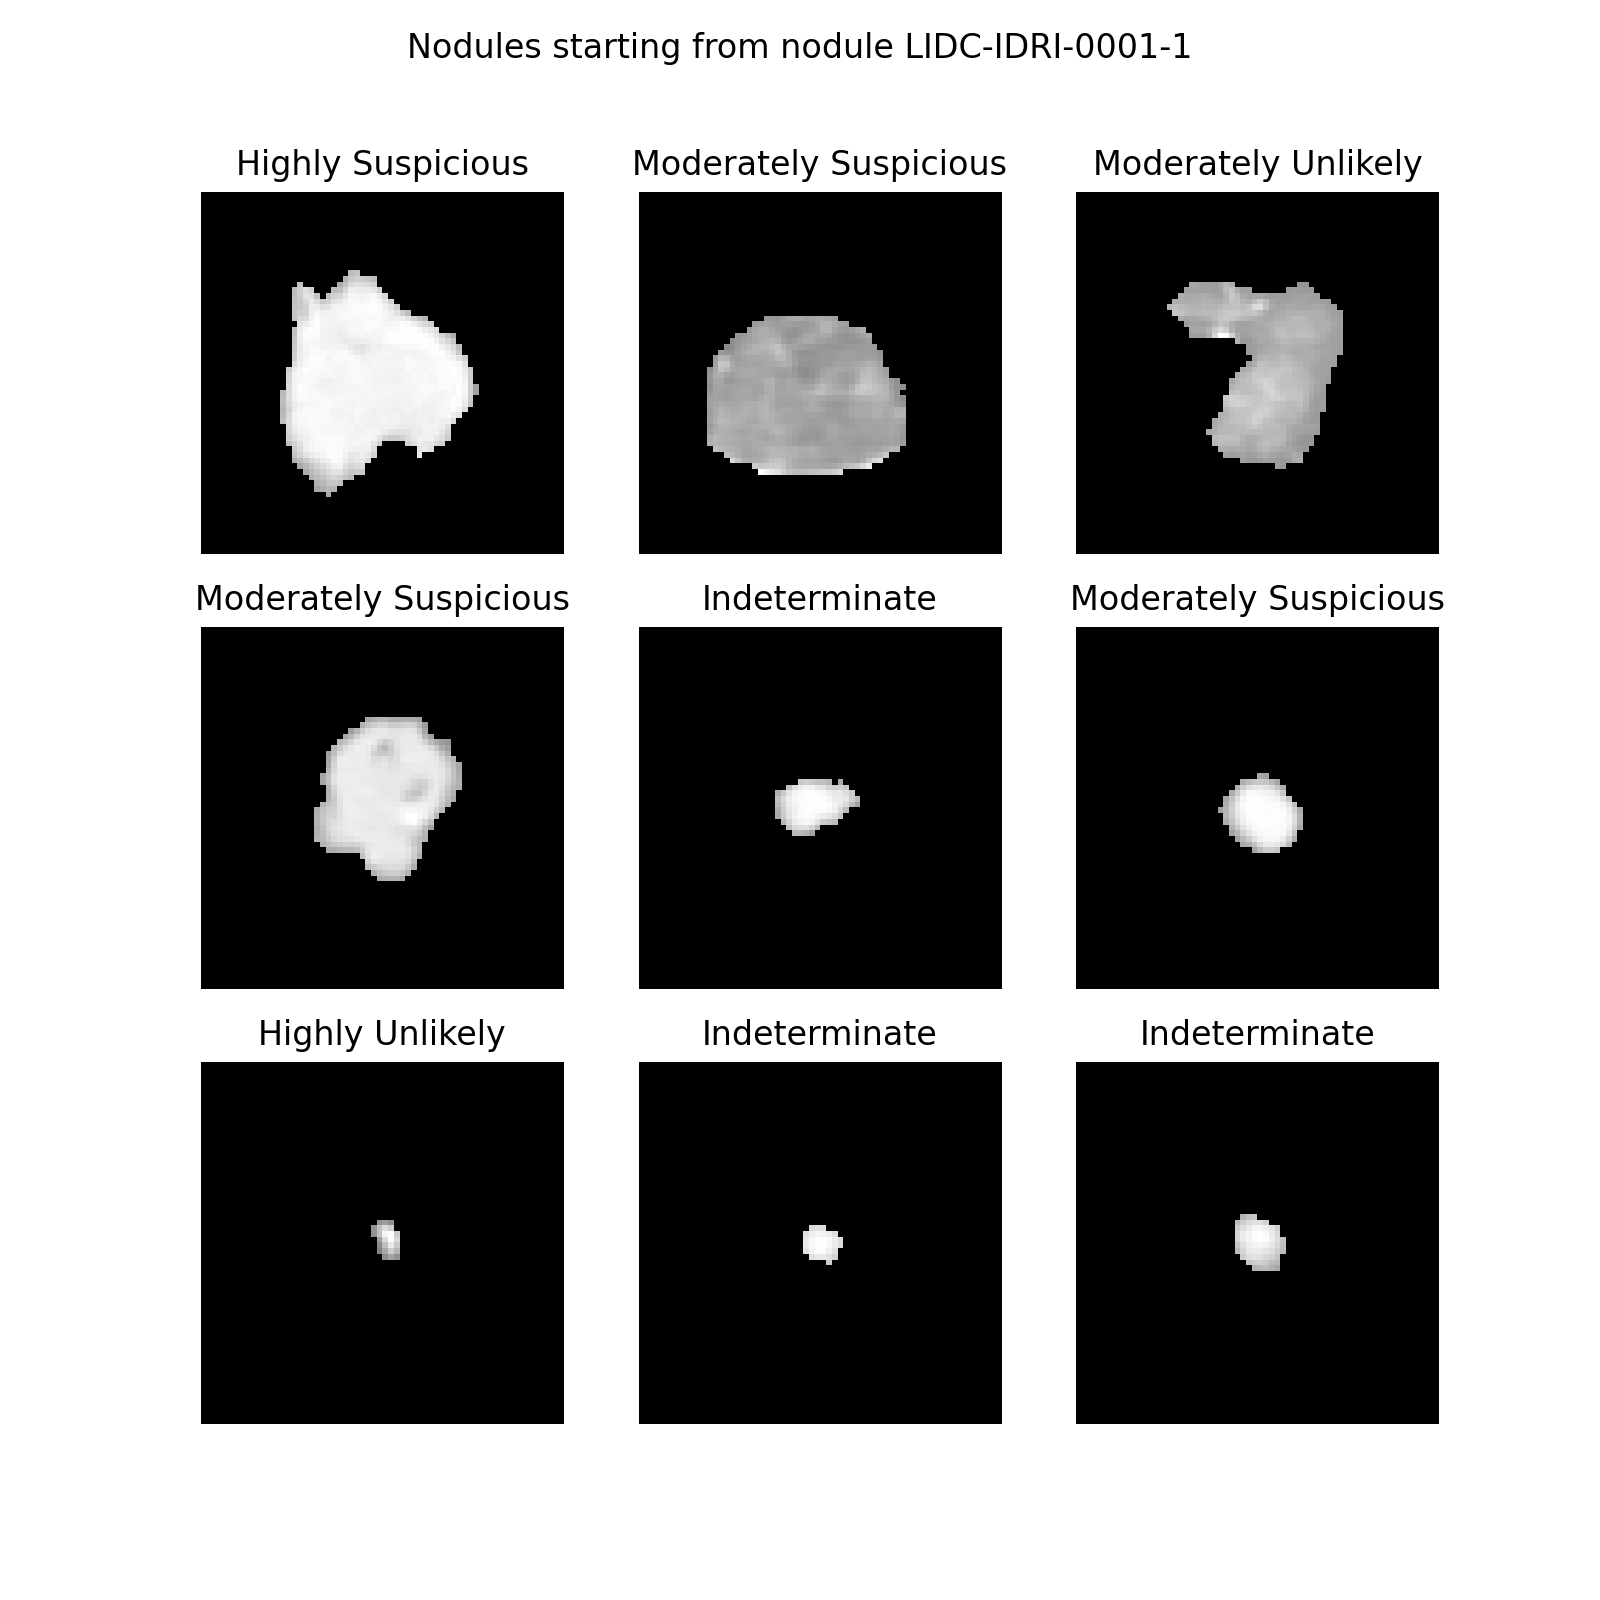
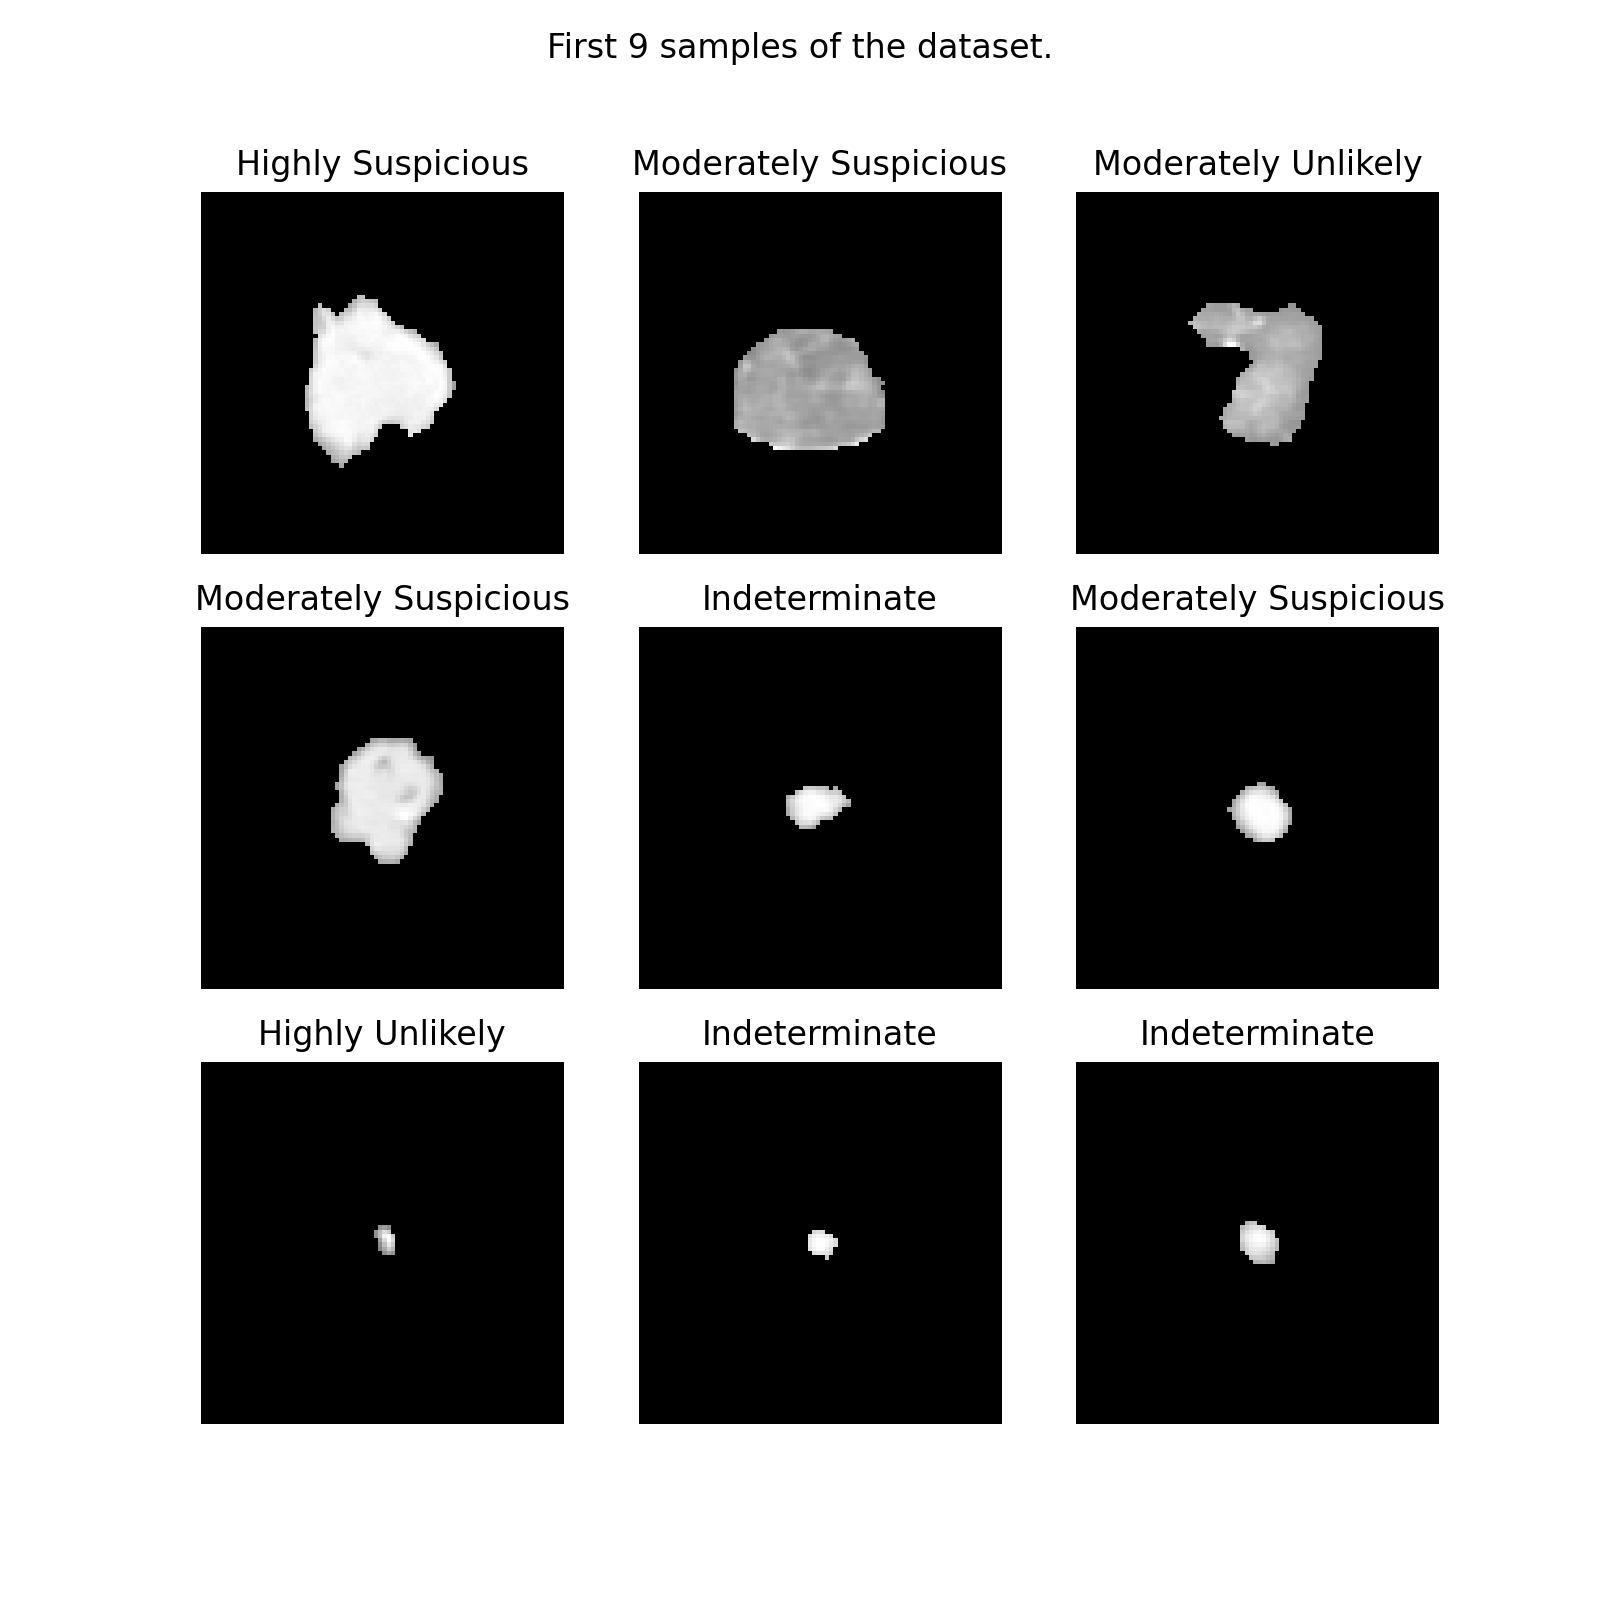
Update target_size to (84, 84) in NoduleDataset and test_pad_image

diff --git a/tests/test_dataset.py b/tests/test_dataset.py
@@ -23,8 +23,8 @@ def test_pad_image():
     nodule = torch.from_numpy(np.load('/home/vadim/Development/Projects/DeepL-LIDC/data/nodules/LIDC-IDRI-0001-1.npy'))
     image = nodule[:, :, nodule.shape[2] // 2]
     padding_value = 0
-    target_size = (64, 64)
-    expected_shape = torch.Size([64, 64])
+    target_size = (84, 84)
+    expected_shape = torch.Size([84, 84])
     assert pad_image(image, padding_value, target_size).shape == expected_shape
 
 def test_nodule_dataset():
@@ -37,12 +37,16 @@ def test_nodule_dataset():
     #Check if there are no images if nan
     for i in range(len(dataset)):
         assert not torch.isnan(dataset[i][0]).any()
+        
+    #Check if all images are 84x84
+    for i in range(len(dataset)):
+        assert dataset[i][0].shape == torch.Size([84, 84])
     
     # Test case 2: Check if the dataset returns the correct sample
     sample_idx = 0
     image, label = dataset[sample_idx]
     expected_label = torch.tensor([0, 0, 0, 0, 1])
-    assert image.shape == torch.Size([64, 64])
+    assert image.shape == torch.Size([84, 84])
     assert torch.allclose(label, expected_label)
     
     # Test case 3: Iterate and visualize the first 9 samples
@@ -62,5 +66,5 @@ def test_nodule_dataset():
         plt.axis("off")
         plt.imshow(image, cmap="gray")
     figure.suptitle(f"First 9 samples of the dataset.")
-    # plt.savefig('/home/vadim/Development/Projects/DeepL-LIDC/results/nodules.png', dpi=200)
+    plt.savefig('/home/vadim/Development/Projects/DeepL-LIDC/results/nodules.png', dpi=200)
     plt.show()

diff --git a/deepl_lidc/dataset.py b/deepl_lidc/dataset.py
@@ -73,7 +73,7 @@ class NoduleDataset(Dataset):
 
         #create an array with tuples (image,label) where image and label are tensors
         self.res = []
-        target_size = (64, 64) ##size of tensor
+        target_size = (84, 84) ##size of tensor
         for x in available_nodules:
             nodule_path = os.path.join(self.nodule_dir, x + '.npy')
             nodule = torch.from_numpy(np.load(nodule_path))
